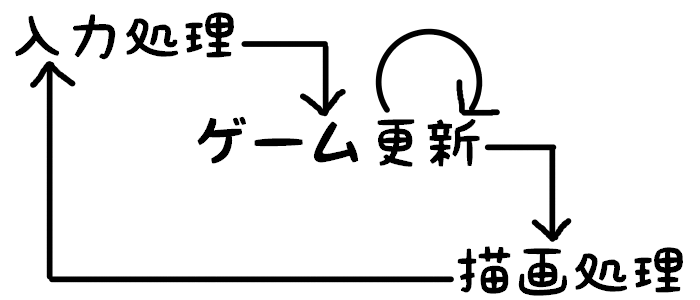
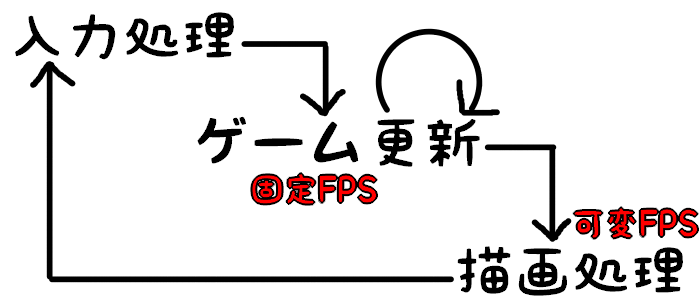
第八章GameLoop執筆。

Changed region(s): [[0.81, 0.69, 1.0, 0.81], [0.36, 0.57, 0.54, 0.69]]

diff --git a/source/8.html b/source/8.html
@@ -265,7 +265,7 @@
                         <li>速い機器で遊ぶプレイヤーは滑らかに動くゲームが楽しめる。</li>
                       </ul>
                       ところが、残念なことに深刻な問題が待ち構えています。
-                      それは、この手法ではゲームが非決定論的(プログラムを実行する度に結果が変わってしまう)になってしまい不安定になるのです。
+                      それは、この手法ではゲームが<span class="strong-letter">非決定論的(プログラムを実行する度に結果が変わってしまう)</span>になってしまい不安定になるのです。
                       実例を上げましょう。
                     </div>
                     <div class="margin-letter">
@@ -282,7 +282,7 @@
                       他にも問題は存在します。
                       <br>ゲームの物理エンジンでは、実際の物理法則を近似して使用しています。
                       この近似は、更新間隔に合わせて注意深く設定されているのです。
-                      それを変化させると(更新間隔)、<span class="strong-letter">物理シミュレーションが不安定</span>になってしまいます。
+                      それ(更新間隔)を変化させると、<span class="strong-letter">物理シミュレーションが不安定</span>になってしまいます。
                     </div>
                   </div>
                   <div class="margin-letter">
@@ -333,11 +333,100 @@
                       <img src="image/7/4.png" class="margin-letter">
                     </div>
                     <div class="margin-letter">
-                      
+                      いくつか大事な点があります。
+                      <br>更新処理の時間間隔が表示のフレームレートでなくなっていることに注意してください。
+                      <span class="strong-letter">MS_PER_UPDATEが更新処理の時間間隔</span>になっています。
+                      多くの場合、物理シミュレーションを忠実に行うために、この値は60FPS(0.0166秒)より速い速度になるように設定します。
+                      <br>しかし、MS_PER_UPDATEを小さくしすぎないように注意しましょう。
+                      最も遅いハードウェアで動かした場合でも、Update()呼び出し1回にかかる時間&lt;MS_PER_UPDATEとなるようにしましょう。
+                      <br>これで物理シミュレーションは、ハードウェアに寄らず固定時間間隔で安定して行われるようになりました。
                     </div>
                   </div>
                 </ul>
-                
+            </div>
+          </div>
+          <li id="5"><h2 class="margin-letter2">8.5 検討項目</h2></li>
+          <div class="letter">
+            <div>
+              様々なGameLoopのパターンを紹介してきました。
+              <br>実際はマルチスレッド、GPUといった様々な要素があるためGameLoopはどんどん扱いづらくなっています。
+              しかし、今回紹介したGameLoopで解決できるようになった問題がいくつかあります。
+              <ul>
+                <div class="margin-letter">
+                  <h5><li>GameLoopがどこにあるか</li></h5>
+                  <ul>
+                    <li>プラットフォームのEventLoopを使う場合(ブラウザなど)</li>
+                    ループを作成し、最適化するのにあれこれ悩む必要がありません。
+                    しかし、ループのタイミングの制御ができません。
+                    大抵のアプリケーションプラットフォームが、ゲームを動かすことを念頭において書かれているわけではないので、間隔があいてるのが普通です。
+                    <li>ゲームエンジンのGameLoopを使う場合</li>
+                    ループを書く必要がありません。
+                    既製エンジンを利用するメリットの1つが、既に作成済みのGameLoopを利用できるという点です。
+                    しかし、GameLoopを自分で書くことができません。
+                    <li>自分でGameLoopを書く場合</li>
+                    自分でループを制御することができます。
+                    しかし、プラットフォームとの調整が鬼門となります。
+                  </ul>
+                </div>
+                <div class="margin-letter">
+                  <h5><li>電力消費の制御</li></h5>
+                  これはスマートフォンやノートPC、小型ゲーム機などの進歩により、この問題に配慮せざるを得なくなりました。  
+                  <ul>
+                    <li>可能な限り高速で実行する</li>
+                    パソコン用のゲームではおそらくこの選択肢が採用されるでしょう。
+                    GameLoop中にOSをスリープさせるコードを入れたりはしないでしょう。
+                    それよりも余力があれば、FPSを上げたりグラフィックスの精度を上げたりするでしょう。
+                    <li>フレームレートに上限を設ける</li>
+                    モバイルゲームではグラフィックスを詳細に凝らせるより、遊び心地を優先するためフレームレートに上限を設けることがよくあります(普通は30FPS～60FPSです)。
+                    GameLoopが決められた時間内に処理を終えた場合、残りの時間でスリープさせます。
+                    そうすれば、プレイヤーは快適にゲームが遊べますし、バッテリーにも優しいのです。
+                  </ul>
+                </div>
+                <div class="margin-letter">
+                  <h5><li>実行速度の調整</li></h5>
+                  ゲームが実行させるプラットフォームが複数あるとき、どのように対応させるかが鍵です。
+                  <ul>
+                    <li>固定更新間隔で同期なし</li>
+                    シンプルなのが長所です。
+                    しかし、実行環境によってゲームの速度に影響がでます。
+                    <li>固定更新間隔で同期を行う</li>
+                    固定更新間隔でゲームを実行しつつ、ループ最後の待ち時間で同期を行いゲームが速すぎないようにします。
+                    待ち時間でスリープを行うことでバッテリーに優しくなりますし、ゲームが速くなりすぎることはありません。
+                    しかし、ゲームが遅くなりすぎることがあるという欠点があります。
+                    <li>可変更新間隔</li>
+                    一見、最善の方法かに思えたこの方法が、様々な問題点を抱えていることは前述した通りです。
+                    しかし、更新間隔が遅くても速くてもゲームの速度が一定であるという長所があります。
+                    <li>固定更新間隔で可変描画間隔</li>
+                    前述したサンプルコードの中では最も複雑ではありますが、最も柔軟です。
+                    メリットは前述した通りですが、高性能ハードウェアでも低性能ハードウェアでも問題なく動くように、
+                    更新時間間隔を調整する必要があります。
+                  </ul>
+                </div>
+              </ul>
+            </div>
+          </div>
+          <li id="6"><h2 class="margin-letter2">8.6 練習問題2</h2></li>
+          <div class="letter">
+            <div>
+              practice/GameLoop/Practice2/Game.slnからVisualStudioを立ち上げてください。
+              練習問題1と同じゲームが起動します。
+              描画処理と更新処理のFPSがそれぞれ表示されています。
+              <div>
+                <img src="image/7/5.png" class="margin-letter">
+              </div>
+              <div class="margin-letter">
+                <span class="strong-letter">更新処理のFPSが120FPSになるように、GameLoopクラスを改造してください。</span>
+                <ul>
+                  <li>CurrentTime関数を活用してください。</li>
+                  <li>120FPSの場合、1フレームあたりの時間は0.00833秒です。</li>
+                  <li>
+                    <div class="video">
+                      <iframe  width="560" height="315" src="https://www.youtube.com/embed/7qRzh5zsmTc" title="YouTube video player" frameborder="0" allow="accelerometer; autoplay; clipboard-write; encrypted-media; gyroscope; picture-in-picture" allowfullscreen></iframe>
+                    </div>
+                  </li>
+                  <li>Answerに実装例がありますので、参考にしてください。</li>
+                </ul>
+              </div>
             </div>
           </div>
         </ul>
